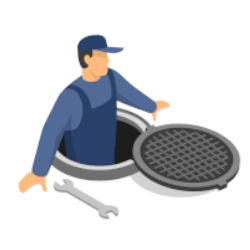
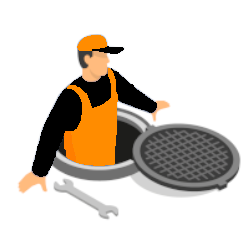
Change colors

Changed region(s): [[0.112, 0.252, 0.644, 0.728], [0.308, 0.14, 0.504, 0.224]]

diff --git a/css/style.css b/css/style.css
@@ -4,7 +4,6 @@
 * {
     margin: 0px;
     padding: 0px;
-    background: 
 }
 
 
@@ -12,13 +11,11 @@
 ...::: Formatação do Cabeçalho 1 :::...
 ********************************************/
 .Header {
-    background: #1D1E43;
+    background: #FF8C00;
     height: 50px;
 }
 
 .Tipographic {
-    color: white;
-    font-size: 30px;
     float: left;
     display: flex;
     align-items: center;
@@ -34,13 +31,12 @@
     float: right;
     display: flex;
     align-items: center;
-    color: white;
+    color: #000000;
     font-size: 25px;
     padding: 0px 25px 0px 0px;
 }
 
 .PhoneIcon {
-    color: white;
     padding: 3px; 
     height: 45px;
     text-align: right;
@@ -62,8 +58,8 @@
 .Collum {
     height: 400px;
     width: 350px;
-    background: #1D1E43;
-    color: #ffffff;
+    background: #FF8C00;
+    color: #000000;
     Border: 1px solid black;
     border-radius: 10px;
     float: Left;
@@ -101,20 +97,19 @@
     text-align: center;
     margin: 0 auto;
     margin-top: 11px;
-    background-color: #1D1E43;;
+    background-color: #FF8C00;;
 }
 
 .FooterIcon{
     margin: 10px;
     text-decoration: none;
-    filter: invert(99%)
 }
 
 #Footer p{
-    color: white;
+    color: #000000;
 }
 
 #dcbianchi {
-    color: red;
+    color: #ffffff;
     text-decoration: underline;
 }
